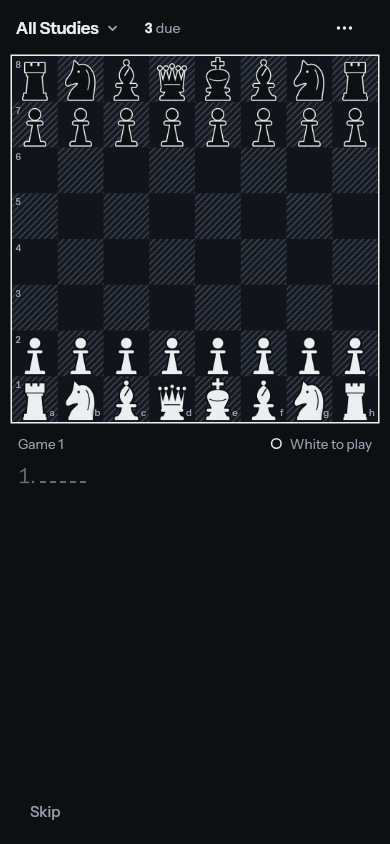
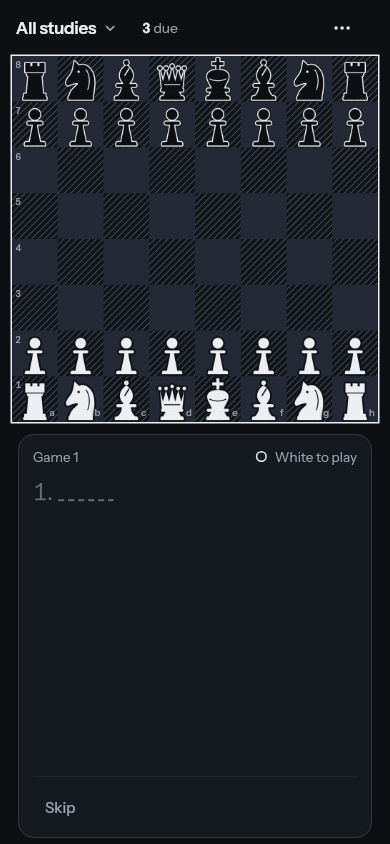
feat(review): group the side column as a card with a ruled action footer
The prompt state showed a void with a floating Skip: the side column is now
one surface card (hairline, r16) holding meta, notation and slot above an
action footer separated by a hairlineSoft rule. The notation line grows
21->24 narrow so the headline holds under the board's weight; the layout's
reserved min-height follows (22->24). Fixed-region behavior unchanged:
board never moves between states, slot still scrolls, actions keep min 56.

Goldens regenerated for prompt + answered (the states showing the column);
actions/scope/empty captures contain no side column and were left alone.

Verified by targeted tests only (full suite is CI's job).

Changed region(s): [[0.0308, 0.0, 0.9846, 0.6161], [0.0615, 0.955, 0.1846, 0.9858], [0.8615, 0.0308, 0.8923, 0.0616]]

diff --git a/lib/src/design/review_layout.dart b/lib/src/design/review_layout.dart
@@ -133,39 +133,56 @@ class SrsReviewSide extends StatelessWidget {
 
   @override
   Widget build(BuildContext context) {
+    final c = context.srs;
     final lineH = lineFontSize * (wide ? 1.3 : 1.36);
-    return Column(
-      crossAxisAlignment: CrossAxisAlignment.start,
-      children: [
-        Padding(
-          padding: EdgeInsets.only(top: wide ? 2 : 0),
-          child: meta,
-        ),
-        if (line != null) ...[
-          SizedBox(height: wide ? 22 : 8),
-          ConstrainedBox(
-            constraints: BoxConstraints(minHeight: lineH * 2),
-            child: line,
+    // The side column is one surface card: meta + line + slot grouped above a ruled
+    // action footer. In the prompt state the slot is empty and the actions hold a lone
+    // Skip — without the card and the footer rule that reads as a void with a floater.
+    return Container(
+      padding: EdgeInsets.fromLTRB(wide ? 20 : 14, wide ? 14 : 12, wide ? 20 : 14, 0),
+      decoration: BoxDecoration(
+        color: c.surface,
+        border: Border.all(color: c.hairline),
+        borderRadius: BorderRadius.circular(16),
+      ),
+      child: Column(
+        crossAxisAlignment: CrossAxisAlignment.start,
+        children: [
+          Padding(
+            padding: EdgeInsets.only(top: wide ? 2 : 0),
+            child: meta,
+          ),
+          if (line != null) ...[
+            SizedBox(height: wide ? 22 : 10),
+            ConstrainedBox(
+              constraints: BoxConstraints(minHeight: lineH * 2),
+              child: line,
+            ),
+          ],
+          Expanded(
+            child: wide
+                ? Padding(
+                    padding: EdgeInsets.only(top: line != null ? 26 : 14),
+                    child: SingleChildScrollView(child: slot),
+                  )
+                : _BottomFade(
+                    child: Padding(
+                      padding: EdgeInsets.only(top: line != null ? 12 : 10, bottom: 22),
+                      child: SingleChildScrollView(child: slot),
+                    ),
+                  ),
+          ),
+          Container(
+            decoration: BoxDecoration(
+              border: Border(top: BorderSide(color: c.hairlineSoft)),
+            ),
+            child: ConstrainedBox(
+              constraints: const BoxConstraints(minHeight: 56),
+              child: Padding(padding: const EdgeInsets.fromLTRB(0, 8, 0, 8), child: actions),
+            ),
           ),
         ],
-        Expanded(
-          child: wide
-              ? Padding(
-                  padding: EdgeInsets.only(top: line != null ? 26 : 14),
-                  child: SingleChildScrollView(child: slot),
-                )
-              : _BottomFade(
-                  child: Padding(
-                    padding: EdgeInsets.only(top: line != null ? 10 : 8, bottom: 22),
-                    child: SingleChildScrollView(child: slot),
-                  ),
-                ),
-        ),
-        ConstrainedBox(
-          constraints: const BoxConstraints(minHeight: 56),
-          child: Padding(padding: const EdgeInsets.fromLTRB(0, 6, 0, 4), child: actions),
-        ),
-      ],
+      ),
     );
   }
 }

diff --git a/test/design/srs_notation_line_test.dart b/test/design/srs_notation_line_test.dart
@@ -25,6 +25,12 @@ void main() {
   }
 
   group('SrsNotationLine', () {
+    test('the narrow line is headline-sized', () {
+      // The line is billed as the headline of the review screen; 24 narrow keeps it
+      // present under the board's weight. Fails if the size regresses to body text.
+      expect(SrsText.lineSize(wide: false), 24.0);
+    });
+
     testWidgets('a line that fits is shown whole, with no ellipsis', (tester) async {
       final tokens = await render(tester, ['e4', 'e5', 'Nf3', 'Nc6', 'Bb5', 'a6']);
 

diff --git a/lib/src/design/tokens.dart b/lib/src/design/tokens.dart
@@ -383,7 +383,7 @@ abstract final class SrsText {
 
   /// Notation line size.
   static double lineSize({required bool wide, double wideWidth = 0}) =>
-      wide ? (wideWidth * 0.024).clamp(23.0, 31.0) : 21;
+      wide ? (wideWidth * 0.024).clamp(23.0, 31.0) : 24;
   static TextStyle lineMove(double size, Color c) =>
       _ui(size, FontWeight.w600, c, em: -0.012, height: _wideLineHeight(size), tab: true);
   static TextStyle lineNumber(double size, Color c) =>

diff --git a/lib/src/view/review/review_screen.dart b/lib/src/view/review/review_screen.dart
@@ -786,7 +786,7 @@ class _ActiveReviewViewState extends ConsumerState<_ActiveReviewView> {
           ),
           side: (context, wide, appWidth) => SrsReviewSide(
             wide: wide,
-            lineFontSize: wide ? 28.0 : 22.0,
+            lineFontSize: wide ? 28.0 : 24.0,
             meta: _MetaView(
               contextLabel: prompt.chapterTitle ?? prompt.studyTitle ?? '',
               orientation: state.boardOrientation,
